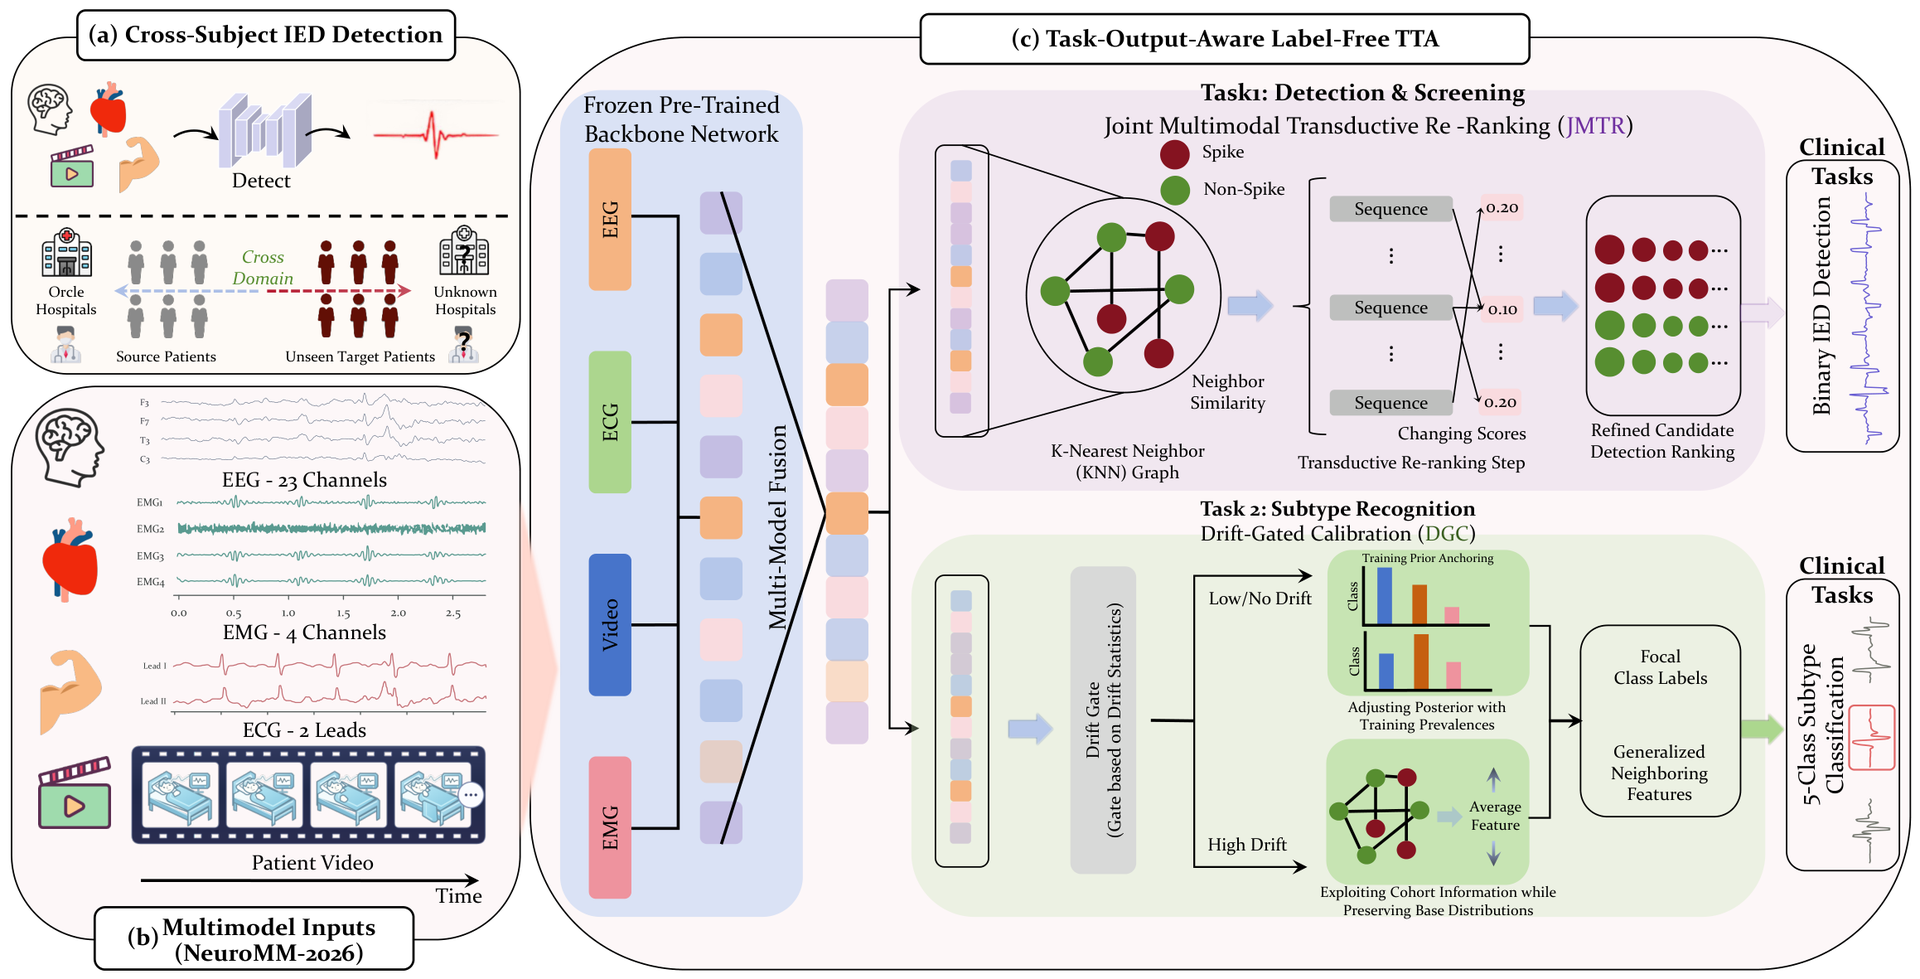
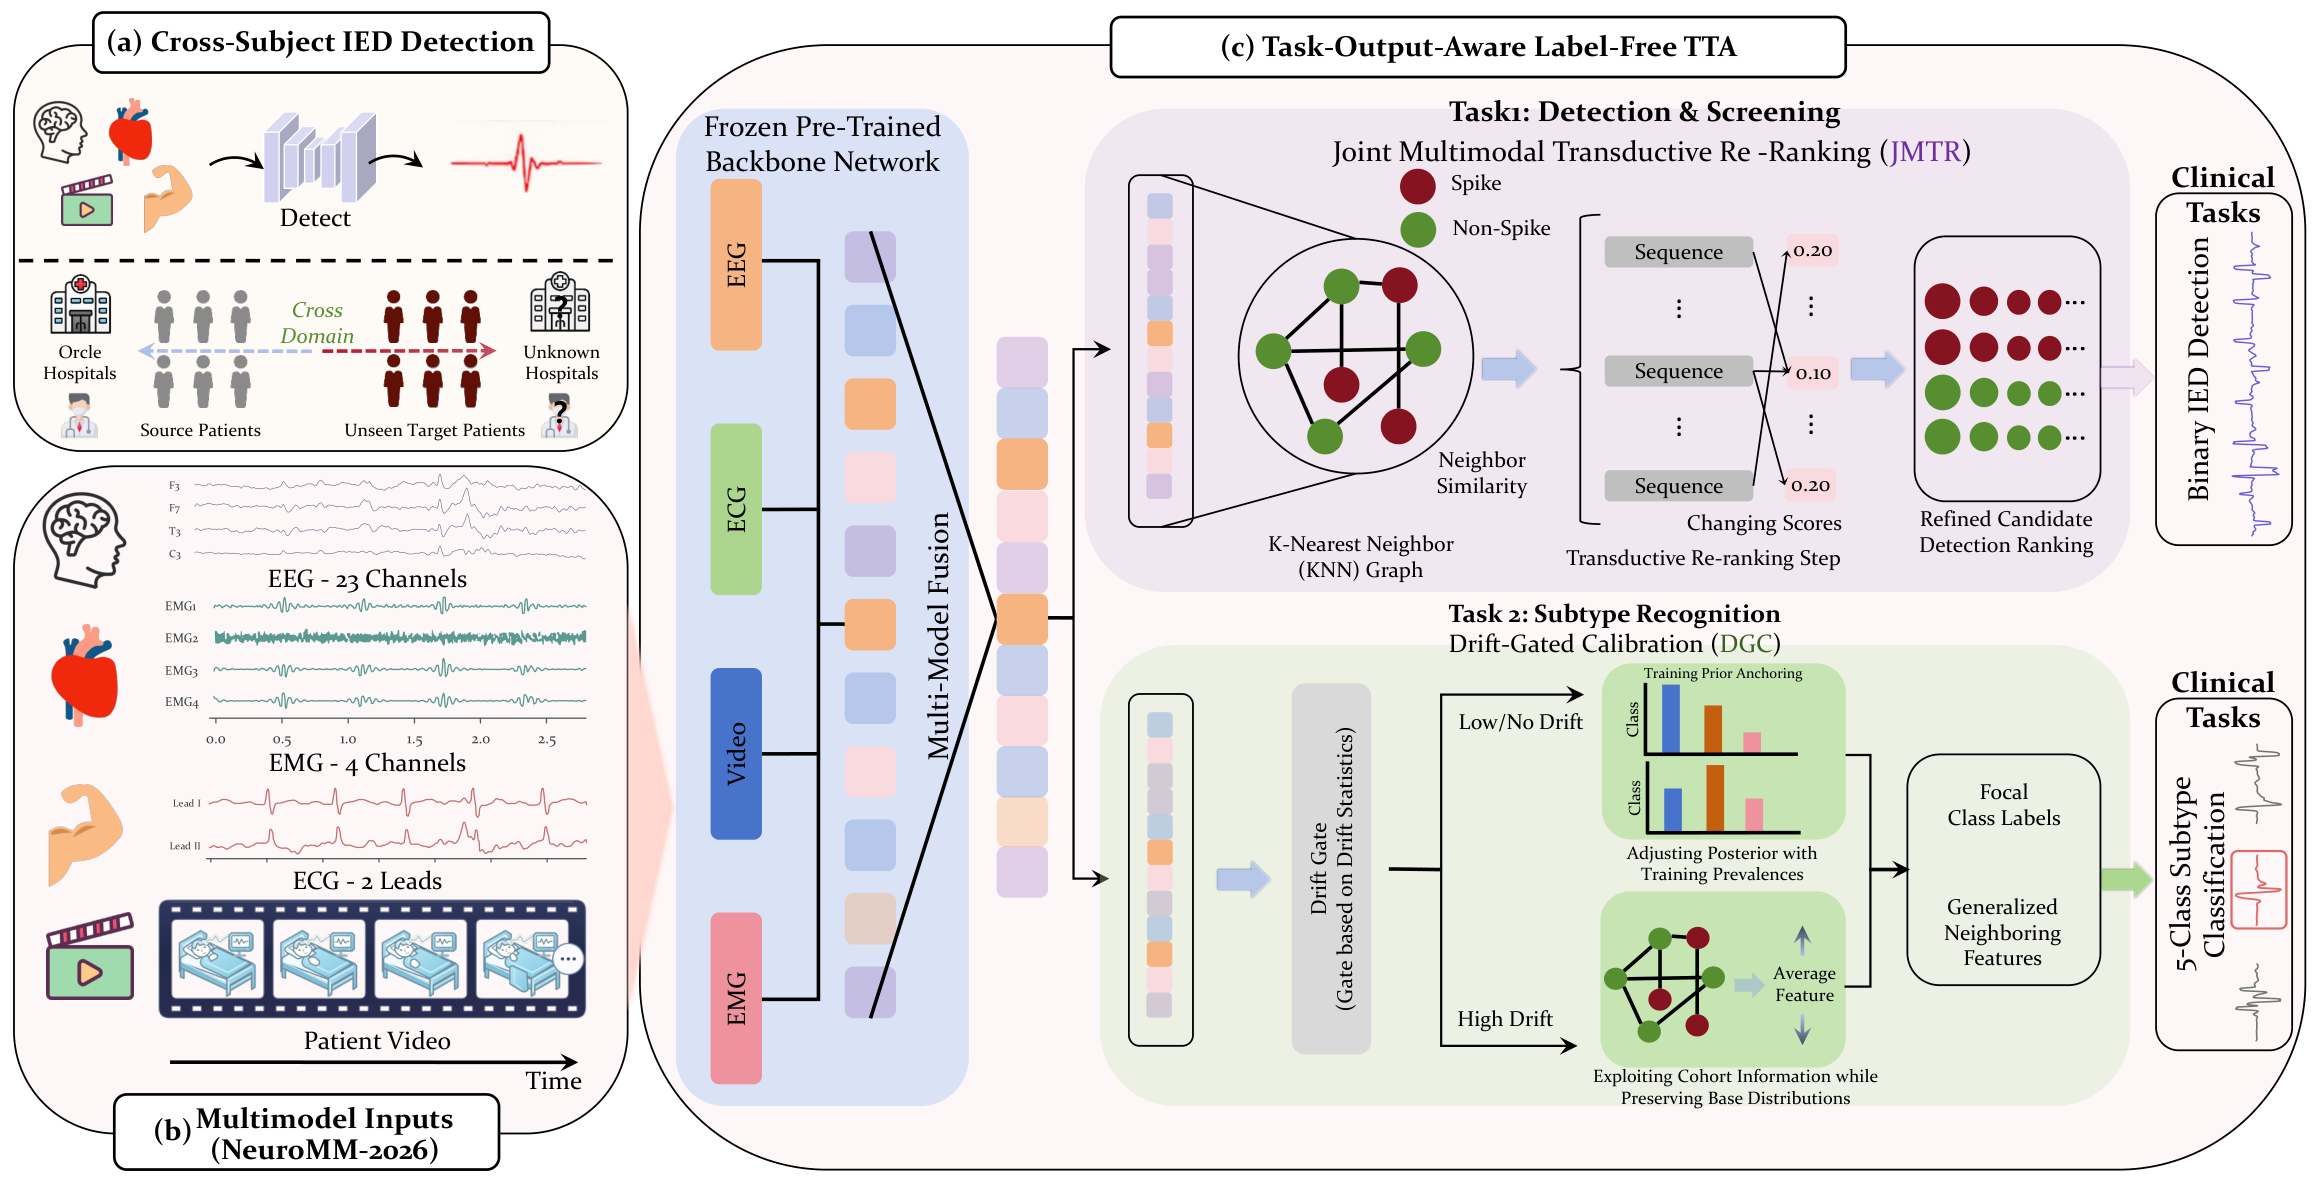
20260707

Changed region(s): [[0.8438, 0.7661, 0.875, 0.7967]]

diff --git a/assets/css/main.scss b/assets/css/main.scss
@@ -1860,6 +1860,16 @@ body > #main > .sidebar.sticky {
     filter: saturate(1.03) contrast(1.02);
 }
 
+.paper-box-image img.paper-image--crisp,
+.paper-box-image:hover img.paper-image--crisp {
+    image-rendering: -webkit-optimize-contrast;
+    filter: none !important;
+}
+
+.paper-box-image > .paper-image-frame--crisp {
+    transition: border-color 0.22s ease, box-shadow 0.22s ease;
+}
+
 .paper-box-image:hover > div {
     z-index: 70;
     border-color: rgba(132, 169, 182, 0.94);

diff --git a/_pages/includes/pub.md b/_pages/includes/pub.md
@@ -112,9 +112,9 @@
 
 <div class="paper-box">
   <div class="paper-box-image">
-    <div>
+    <div class="paper-image-frame--crisp">
       <div class="badge badge--accepted">ACM MM 2026</div>
-      <img loading="lazy" decoding="async" src="Images/Publication/JMTR.webp?v=20260921-hq" alt="Metric-aware test-time adaptation framework for cross-subject multimodal IED detection" width="1920" height="979">
+      <img class="paper-image--crisp" loading="lazy" decoding="async" src="Images/Publication/JMTR.webp?v=20260921-full" alt="Metric-aware test-time adaptation framework for cross-subject multimodal IED detection" width="2317" height="1181">
     </div>
   </div>
   <div class="paper-box-text">
